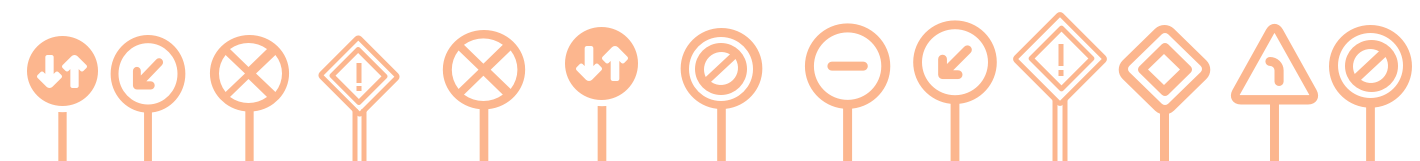
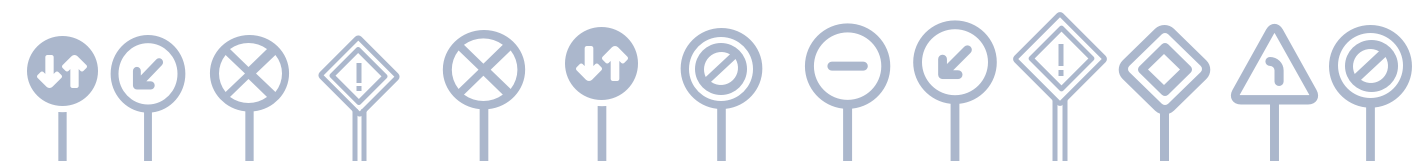
Site colors to orange changed

diff --git a/public/css/site/style.css b/public/css/site/style.css
@@ -10,13 +10,13 @@ body {
 .mozaik-background {
     /* Фиксируем фон веб-страницы */
     background-size: 400px !important;
-    background: url("/images/BackgroundTexture2.png") repeat fixed;
+    background: url("/images/BackgroundTexture1.png") repeat fixed;
 }
 
 .signs-line {
-    background-size: 900px !important;
+    background-size: 750px !important;
     background: url("/images/SignsLine.png") repeat-x bottom;
-    height: 100px;
+    height: 80px;
 }
 
 @media (max-width: 1240px) {
@@ -93,7 +93,7 @@ body {
 }
 
 .logo{
-    background: url("/images/Logo.png") no-repeat;
+    background: url("/images/Logo15.png") no-repeat;
     background-size: 100%;
 
     float: left;
@@ -149,8 +149,8 @@ body {
 }
 
 .selected {
-    /*border-bottom: solid 2px #4A6491 !important;*/
-    border-bottom: solid 3px #F76C1C !important;
+    border-bottom: solid 2px #4A6491 !important;
+    /*border-bottom: solid 3px #F76C1C !important;*/
 }
 
 .dropdown-menu{
@@ -188,14 +188,14 @@ body {
 h1{
     font-size: 35px;
     font-weight: bold;
-    margin: 60px auto;
+    margin: 40px auto;
     text-align: center;
 }
 
 h2 {
     font-size: 35px;
     font-weight: normal;
-    margin: 60px 0 0 0;
+    margin: 40px 0 0 0;
 }
 
 a {
@@ -215,10 +215,10 @@ a {
 }
 
 .info-box .title {
-    font-size: 30px;
+    font-size: 26px;
     font-weight: 400;
     color: #293b47;
-    margin-top: 35px;
+    margin-top: 23px;
     margin-bottom: 0;
 }
 
@@ -228,15 +228,23 @@ a {
 }
 
 .main-info-line{
-    padding: 20px 0;
+    padding: 15px 0;
 
     width: 100%;
 
     /*background: linear-gradient(180deg, #F76C1C 0.07%, #d65d18 99.92%);*/
     /*background: linear-gradient(90.73deg, #4A6491 0.07%, #3887bf 99.92%);*/
-    border-top: solid 2px #F76C1C;
     /*border-bottom: solid 2px #F76C1C;*/
     background-size: 100%;
+}
+
+.main-info-line:after {
+    content: ""; /* This is necessary for the pseudo element to work. */
+    display: block; /* This will put the pseudo element on its own line. */
+    /*float: right;*/
+    width: 100%; /* Change this to whatever width you want. */
+    padding-top: 24px; /* This creates some space between the element and the border. */
+    border-bottom: 2px solid #4A6491; /* This creates the border. Replace black with whatever color you want. */
 }
 
 .main-info-line-title {
@@ -276,7 +284,7 @@ a {
     padding: 10px 0;
     /* Фиксируем фон веб-страницы */
     background-size: 400px !important;
-    background: url("/images/BackgroundTexture2.png") repeat fixed;
+    background: url("/images/BackgroundTexture1.png") repeat fixed;
 }
 
 .input_green {
@@ -309,8 +317,8 @@ a {
 }
 
 .button {
-    /*background: #4A6491;*/
-    background: #F76C1C;
+    background: #4A6491;
+    /*background: #F76C1C;*/
     box-shadow: 0 4px 4px rgba(0, 0, 0, 0.25);
     border-radius: 20px;
     width: 259px;
@@ -325,8 +333,8 @@ a {
 
 .information {
     font-size: 24px;;
-    /*color: #566E98;*/
-    color: #F76C1C;
+    color: #566E98;
+    /*color: #F76C1C;*/
     text-decoration: underline;
 }
 

diff --git a/public/js/md-site.js b/public/js/md-site.js
@@ -43,6 +43,7 @@ function loadContent(url, title, addToHistory) {
             type: "GET"
         }).done(function (data) {
             document.title = title;
+            mobileVersionTitle.html(title);
 
             loadingIndicator.hide();
 

diff --git a/src/Controller/DefaultController.php b/src/Controller/DefaultController.php
@@ -18,6 +18,7 @@ use Symfony\Component\HttpFoundation\Response;
 use Symfony\Component\Routing\Annotation\Route;
 use Symfony\Bundle\FrameworkBundle\Controller\Controller;
 use Sensio\Bundle\FrameworkExtraBundle\Configuration\Method;
+use Symfony\Component\Finder\Finder;
 
 class DefaultController extends Controller
 {
@@ -202,13 +203,19 @@ class DefaultController extends Controller
      */
     public function showInfoAction(Request $request)
     {
+        $finder = new Finder();
+        $files = $finder->in($this->get('kernel')->getProjectDir() . '/public/Пилот документы');
+
         if ($request->isXmlHttpRequest()) {
             return $this->render(
-                'site/info.html.twig'
+                'site/info.html.twig', [
+                    'files' => $files
+                ]
             );
         } else {
             return $this->siteRenderFullView([
-                'content' => 'info'
+                'content' => 'info',
+                'files' => $files
             ]);
         }
     }
